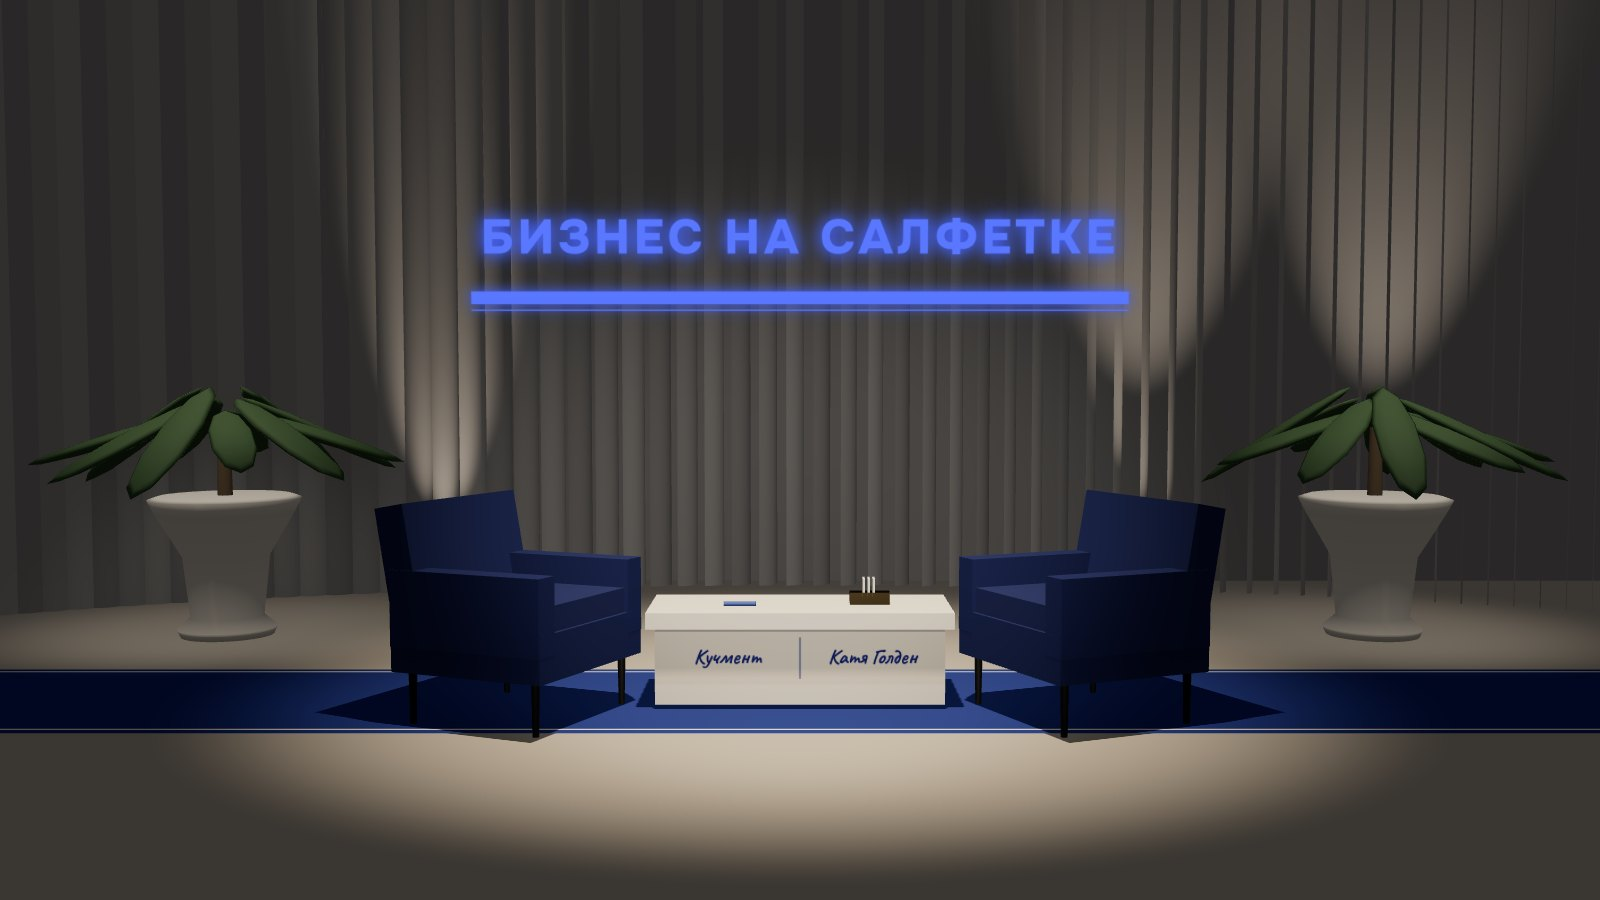
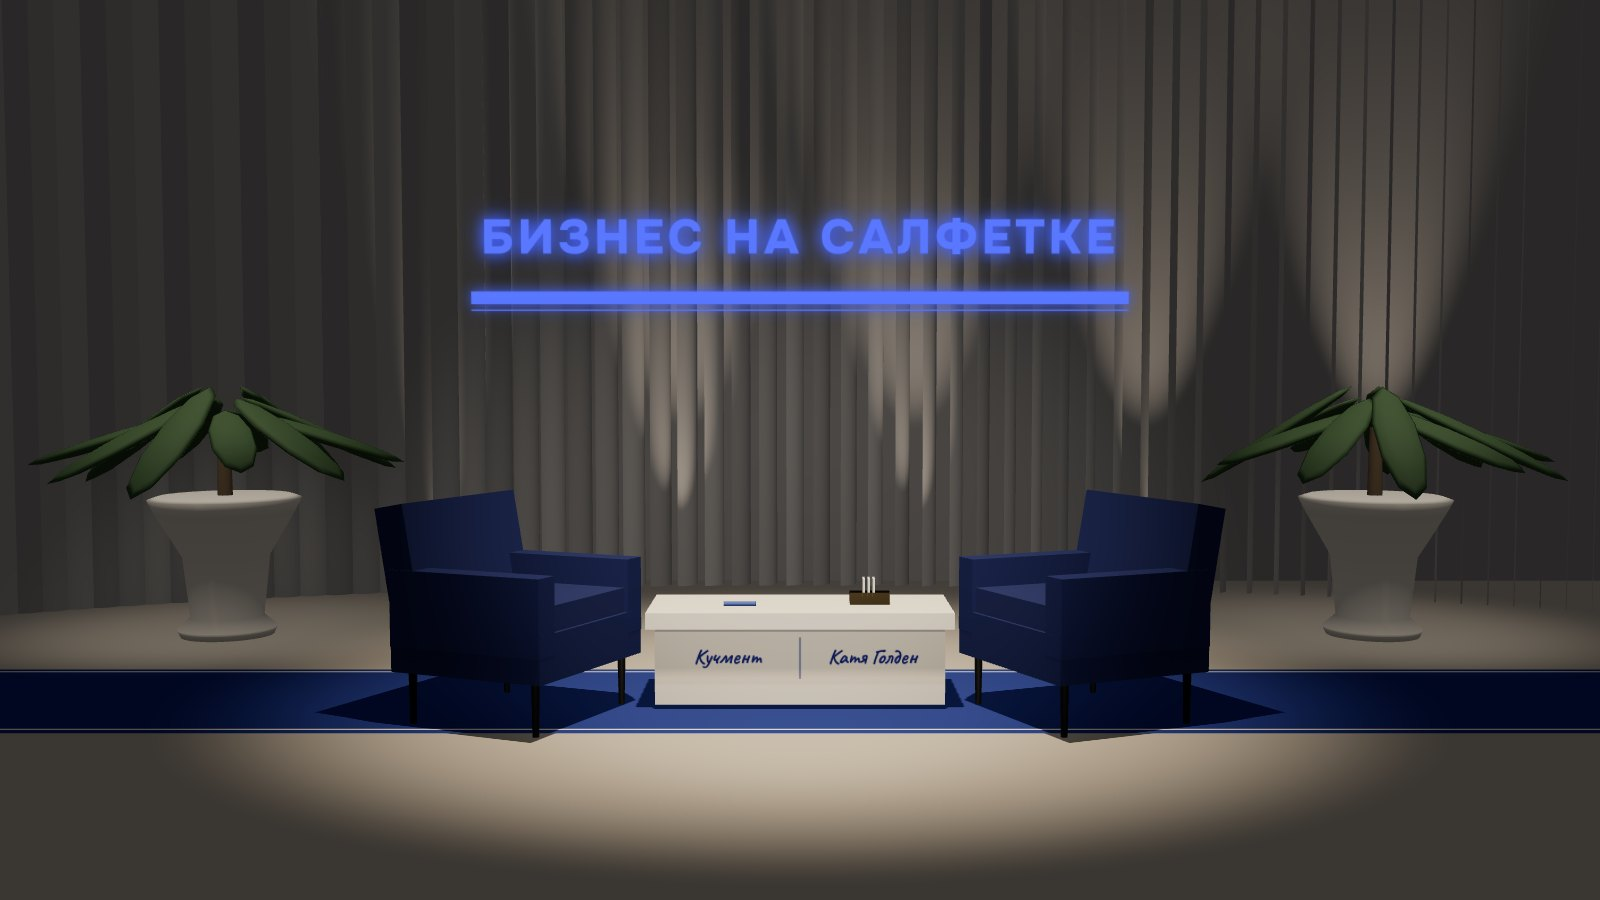
Ровная подсветка штор, переключатель логотипа вместо гостей
Claude-Session: https://claude.ai/code/session_01JqA9mxb2UcCAa9NfNrfw51

diff --git a/index.html b/index.html
@@ -137,7 +137,7 @@ nav a:hover,nav a:focus-visible{color:var(--fg)}
 .chips button[aria-pressed="true"]{background:var(--fg);color:var(--bg)}
 .chips button:focus-visible{outline:2px solid var(--glow);outline-offset:2px}
 .stage-note{max-width:1240px;margin:14px auto 0;color:var(--dim);font-size:13px;text-align:center}
-@media (max-width:700px){.chips.logos{bottom:62px!important}.stage{aspect-ratio:4/5;border-radius:18px}.chips{left:12px;transform:none}.stage .hud{display:none}.stage-note{text-align:left;padding-inline:4px}}
+@media (max-width:700px){.stage{aspect-ratio:4/5;border-radius:18px}.chips{left:12px;transform:none}.stage .hud{display:none}.stage-note{text-align:left;padding-inline:4px}}
 
 .two{display:grid;grid-template-columns:minmax(0,.9fr) minmax(0,1.1fr);gap:clamp(32px,5vw,80px)}
 .two h3{font-size:clamp(28px,3.2vw,40px);font-weight:700;line-height:1.08}
@@ -554,15 +554,10 @@ a:focus-visible{outline:2px solid var(--glow);outline-offset:3px;border-radius:6
     <p class="thesis rv"><b>Камерная студия в серых шторах и одна синяя линия чернил через весь кадр.</b> Фирменная сине белая палитра, логотип и рукописные заметки шоу собраны в спокойную симметричную композицию.</p>
   </header>
   <div class="wrap"><div class="stage rv" data-scene="ink" aria-label="3D схема сета Чернила, перетаскивайте для поворота">
-    <div class="chips variants" role="group" aria-label="Записи на полу под гостя">
-      <button type="button" data-v="3" aria-pressed="false"><i style="background:#eeb7a6"></i>Катя Голден</button>
-      <button type="button" data-v="0" aria-pressed="true"><i style="background:#1d3592"></i>Базовый</button>
-      <button type="button" data-v="1" aria-pressed="false"><i style="background:#f29dbd"></i>Frambini</button>
-      <button type="button" data-v="2" aria-pressed="false"><i style="background:#8e8b85"></i>Пулково</button>
-    </div>
+    <div class="chips logos" role="group" aria-label="Логотип на шторах"><button type="button" data-l="C" aria-pressed="true">Лого: линия</button><button type="button" data-l="B" aria-pressed="false">Лого: салфетка</button></div>
     <div class="chips seats" role="group" aria-label="Количество кресел"><button type="button" data-s="2" aria-pressed="true">2 кресла</button><button type="button" data-s="3" aria-pressed="false">3 кресла</button></div>
-    <div class="chips logos" role="group" aria-label="Логотип на шторах" style="top:auto;bottom:14px;left:14px;transform:none"><button type="button" data-l="C" aria-pressed="true">Лого: линия</button><button type="button" data-l="B" aria-pressed="false">Лого: салфетка</button></div>
-  </div><p class="stage-note">Переключайте гостей сверху, логотип слева внизу и число кресел справа внизу. Схему можно вращать. Белые точки отмечают элементы сета, синие камеры.</p></div>
+    <div class="hud"><span><i></i>элементы сета</span><span><i class="c"></i>камеры</span></div>
+  </div><p class="stage-note">Переключайте формат логотипа сверху и число кресел внизу. Схему можно вращать. Белые точки отмечают элементы сета, синие камеры.</p></div>
 
   <section class="wrap" style="padding-top:clamp(64px,9vw,110px)"><div class="in">
     <div class="two">

diff --git a/scenes.js b/scenes.js
@@ -172,7 +172,7 @@
     // lights: soft daylight
     const key=new T.SpotLight(0xffcf9a,1.25,14,Math.PI/7,.85,1.2);key.position.set(0,6.5,2.2);key.target.position.set(0,.4,.35);key.castShadow=true;key.shadow.mapSize.set(1536,1536);key.shadow.radius=5;scene.add(key,key.target);
     const face=new T.SpotLight(0xffe2c2,.7,12,Math.PI/9,.8,1.2);face.position.set(0,2.4,6);face.target.position.set(0,1,.35);scene.add(face,face.target);
-    [-4.4,-2.6,2.6,4.4].forEach(x=>{const u=new T.SpotLight(0xffcf9e,1.1,7,Math.PI/9,.9,1.4);u.position.set(x,.1,-3.2);u.target.position.set(x*1.05,3.6,-4);scene.add(u,u.target)});
+    [-4.5,-2.7,-.9,.9,2.7,4.5].forEach(x=>{const u=new T.SpotLight(0xffcf9e,1.05,7,Math.PI/10,.85,1.3);u.position.set(x,.1,-3.5);u.target.position.set(x,3.6,-4.05);scene.add(u,u.target)});
     [-3.6,3.6].forEach(x=>{const pl=new T.SpotLight(0xffe0b8,.8,6,Math.PI/8,.8,1.3);pl.position.set(x,4.5,-.6);pl.target.position.set(x,1,-1.6);scene.add(pl,pl.target)});
     const fontS='"Onest", "Inter", Arial, sans-serif',hand='"Marck Script", Caveat, cursive';
     function logoC(){return cv(2048,512,(x,w,h)=>{x.clearRect(0,0,w,h);x.fillStyle='#5a78ff';x.shadowColor='rgba(70,100,255,1)';x.shadowBlur=36;x.textAlign='center';x.textBaseline='middle';x.font='800 128px '+fontS;try{x.letterSpacing='10px'}catch(e){}
@@ -195,7 +195,7 @@
     function plTex(i){return cv(2048,376,(x,w,h)=>{x.fillStyle='#f4f1ea';x.fillRect(0,0,w,h);x.fillStyle='#1d3592';x.fillRect(w/2-3,40,6,h-80);x.textAlign='center';x.textBaseline='middle';
       x.font='700 150px Caveat, "Comic Sans MS", cursive';x.fillText('Кучмент',w/4,h/2);x.fillText(i===0?'гость':V[i],w*3/4,h/2)})}
     function variant(i){plate.map=cache[i]||(cache[i]=plTex(i));plate.needsUpdate=true}
-    variant(0);
+    variant(3);
     return {variant,logo,third:stt.third,tick(){},settle(){}};
   }
   window.SetScenes={ring,paper,ink};
